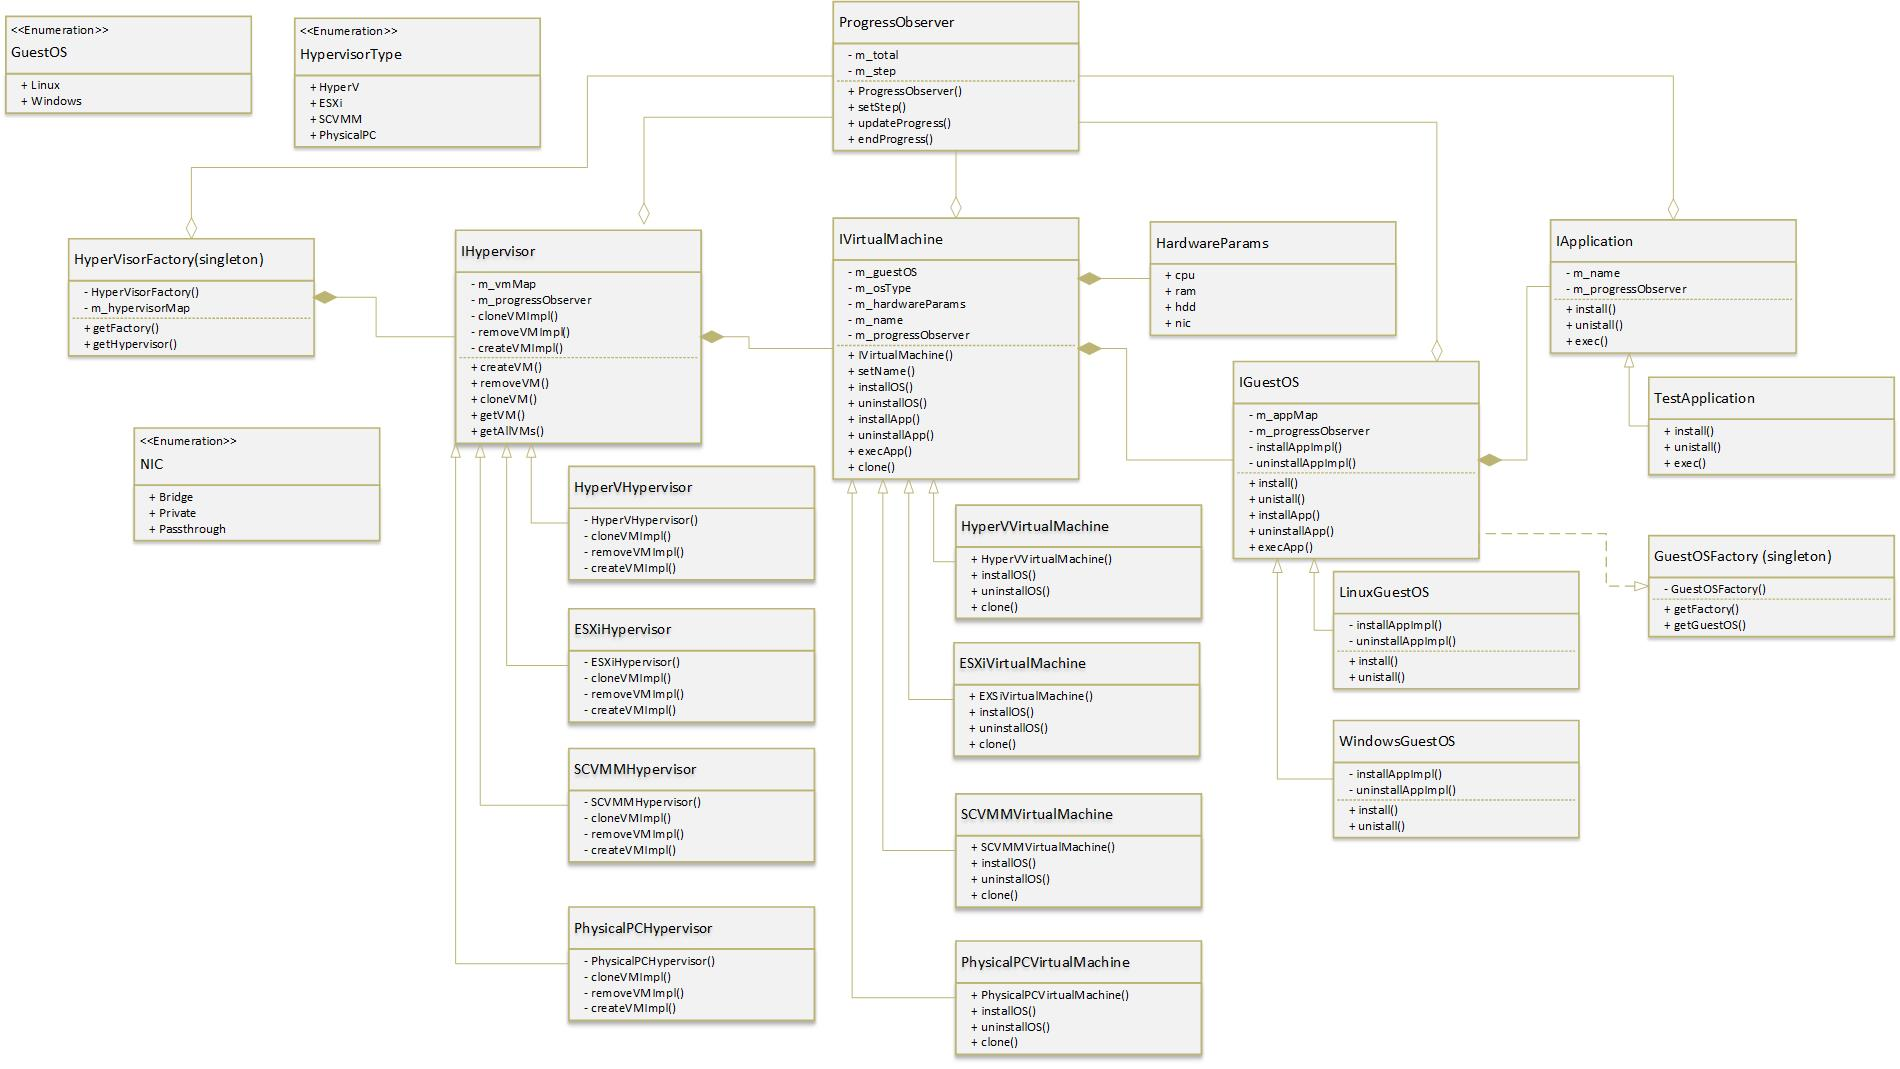
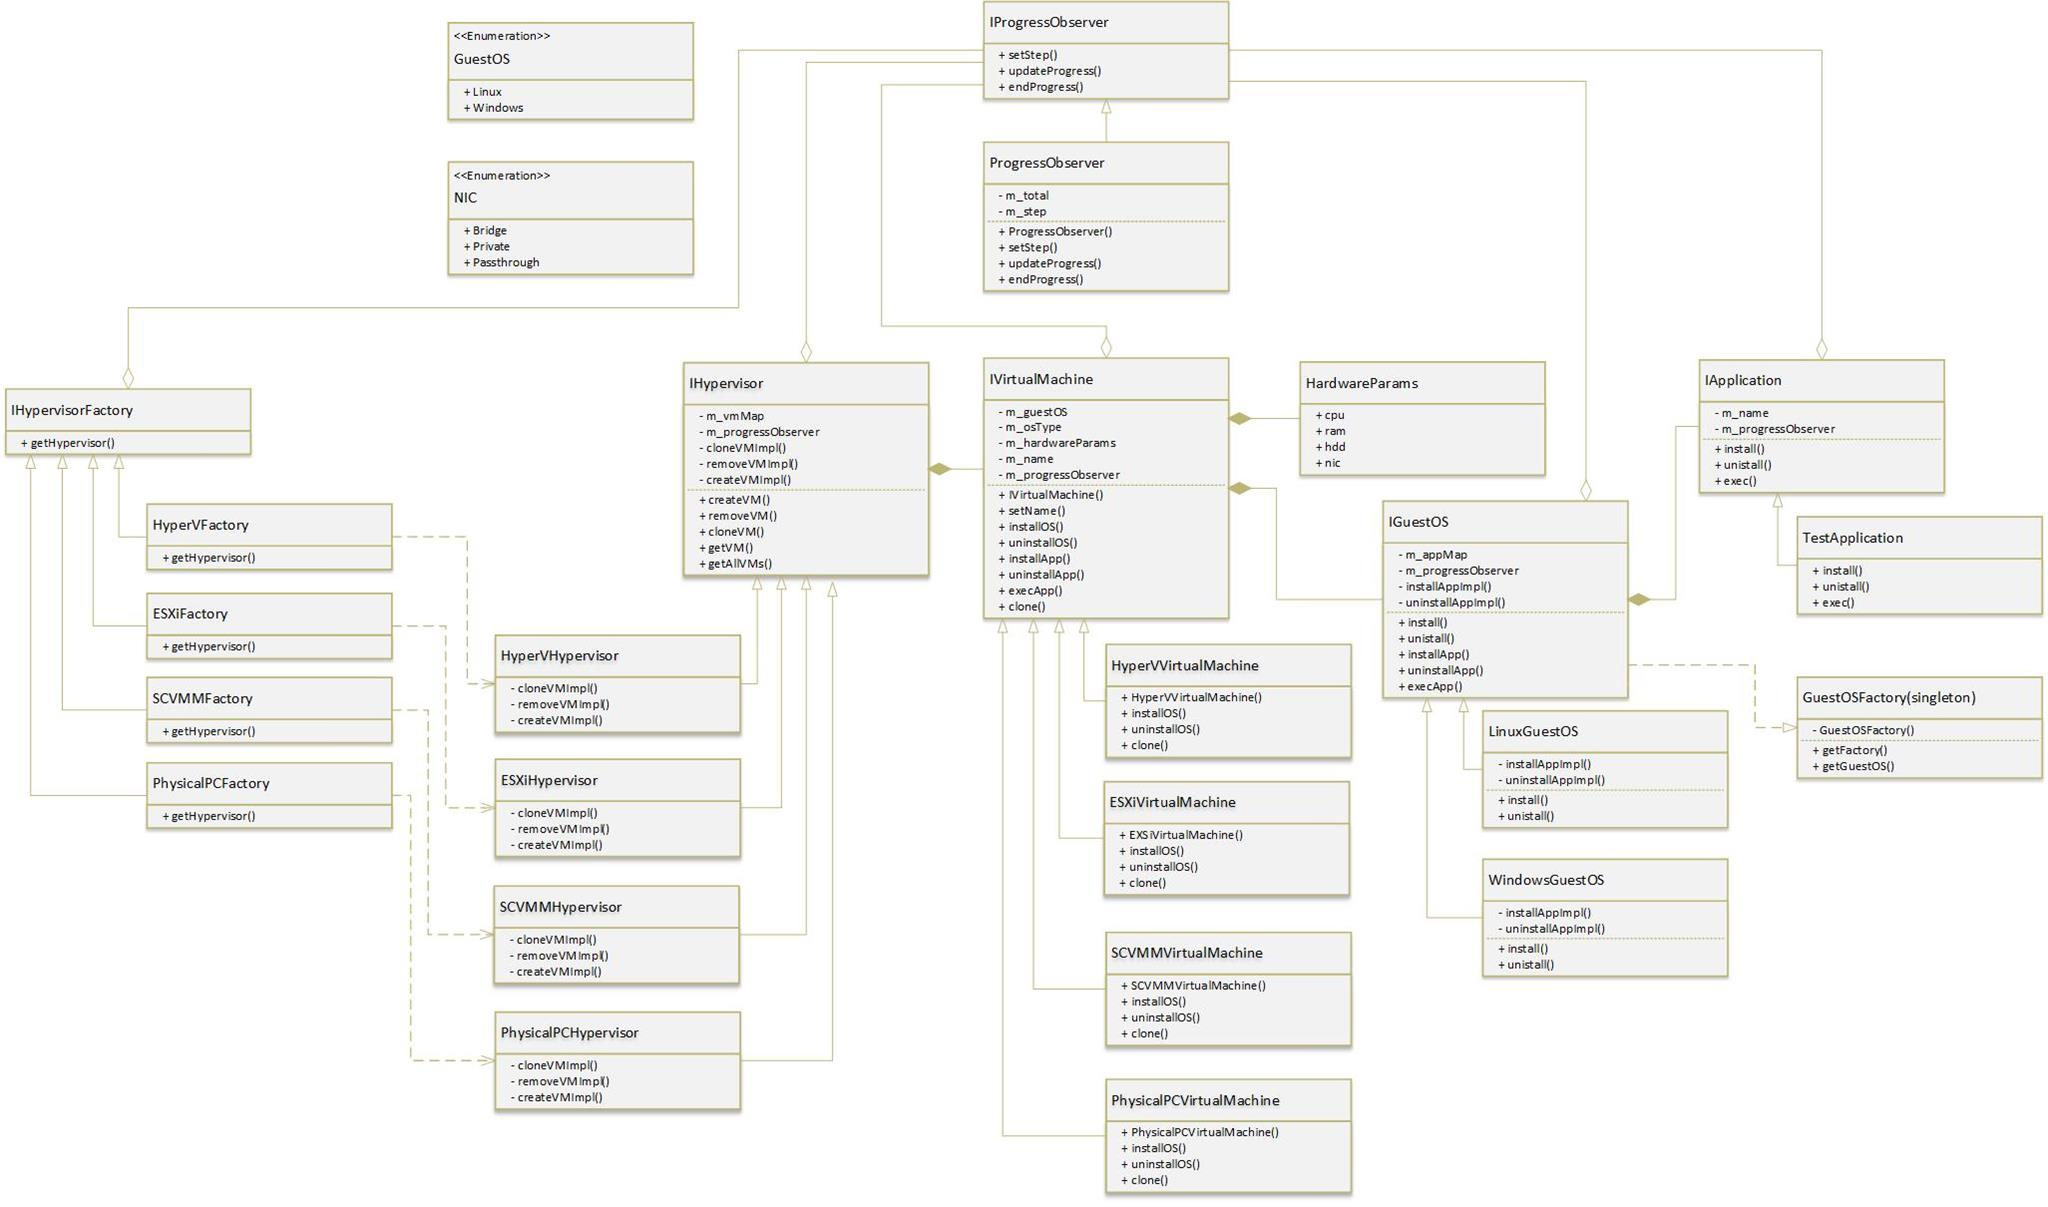
Added Abstarct class for ProgressObserver, fixed singleton, and added factories for each type of hypervisor

Changed region(s): [[0.0, 0.0, 1.0, 1.0]]

diff --git a/main.cpp b/main.cpp
@@ -1,5 +1,8 @@
-
-#include "HypervisorFactory.hpp"
+#include "ProgressObserver.hpp"
+#include "HyperVFactory.hpp"
+#include "ESXiFactory.hpp"
+#include "PhysicalPCFactory.hpp"
+#include "SCVMMFactory.hpp"
 
 void printDel()
 {
@@ -10,21 +13,24 @@ int main(int argc, char *argv[])
 {
     try
     {
-        std::unique_ptr<ProgressObserver> progress(new ProgressObserver());
-        auto factory = HypervisorFactory::getFactory();
-        std::vector<IHypervisor*> hypervisorVec;
-        HardwareParams params{1, 1, 1, NIC::Bridge};
+        std::unique_ptr<IProgressObserver> progress(new ProgressObserver());
+
+        std::list<std::unique_ptr<IHypervisorFactory>> hypervisorFactories;
+        hypervisorFactories.emplace_back(std::unique_ptr<IHypervisorFactory>(new HyperVFactory()));
+        hypervisorFactories.emplace_back(std::unique_ptr<IHypervisorFactory>(new PhysicalPCFactory()));
+        hypervisorFactories.emplace_back(std::unique_ptr<IHypervisorFactory>(new ESXiFactory()));
+        hypervisorFactories.emplace_back(std::unique_ptr<IHypervisorFactory>(new SCVMMFactory()));
+
+        std::list<std::unique_ptr<IHypervisor>> hypervisorVec;
+        for (const auto & factory : hypervisorFactories)
+        {
+            printDel();
+            hypervisorVec.emplace_back(factory->getHypervisor(progress.get()));
+        }
 
         printDel();
-        hypervisorVec.emplace_back(factory->getHypervisor(HypervisorType::HyperV, progress.get()));
-        printDel();
-        hypervisorVec.emplace_back(factory->getHypervisor(HypervisorType::ESXi, progress.get()));
-        printDel();
-        hypervisorVec.emplace_back(factory->getHypervisor(HypervisorType::SCVMM, progress.get()));
-        printDel();
-        hypervisorVec.emplace_back(factory->getHypervisor(HypervisorType::PhysicalPC, progress.get()));
-        printDel();
-        printDel();
+
+        HardwareParams params{1, 1, 1, NIC::Bridge};
 
         for (const auto& hyper : hypervisorVec)
         {

diff --git a/Hypervisor/IHypervisor.hpp b/Hypervisor/IHypervisor.hpp
@@ -2,33 +2,25 @@
 #define IHYPERVISOR_HPP
 
 #include <map>
-#include <vector>
+#include <list>
 #include <memory>
 #include "IVirtualMachine.hpp"
-#include "ProgressObserver.hpp"
-
-enum HypervisorType
-{
-    HyperV,
-    ESXi,
-    SCVMM,
-    PhysicalPC
-};
+#include "IProgressObserver.hpp"
 
 class IHypervisor
 {
 public:
-    explicit IHypervisor(ProgressObserver* observer)
+    explicit IHypervisor(IProgressObserver* observer)
         : m_progressObserver(observer) {}
     virtual ~IHypervisor(){}
     IVirtualMachine* createVM(const HardwareParams& params, const std::string& name);
     void removeVM(const std::string& name);
     IVirtualMachine* cloneVM(const std::string& orig_name, const std::string& clone_name);
     IVirtualMachine* getVM(const std::string& name);
-    std::vector<IVirtualMachine*> getAllVMs();
+    std::list<IVirtualMachine*> getAllVMs();
 
 protected:
-    ProgressObserver* m_progressObserver;
+    IProgressObserver* m_progressObserver;
     std::map<std::string, std::unique_ptr<IVirtualMachine>> m_vmMap;
 
 private:

diff --git a/VirtualMachine/PhysicalPCVirtualMachine.cpp b/VirtualMachine/PhysicalPCVirtualMachine.cpp
@@ -1,7 +1,7 @@
 #include "PhysicalPCVirtualMachine.hpp"
 #include "GuestOSFactory.hpp"
 
-PhysicalPCVirtualMachine::PhysicalPCVirtualMachine(ProgressObserver *observer, const HardwareParams &params, const std::string &name)
+PhysicalPCVirtualMachine::PhysicalPCVirtualMachine(IProgressObserver *observer, const HardwareParams &params, const std::string &name)
     : IVirtualMachine(observer, params, name)
 {
     std::cout << "PhysicalPCVirtualMachine created" << std::endl;
@@ -16,7 +16,7 @@ std::unique_ptr<IVirtualMachine> PhysicalPCVirtualMachine::clone()
 void PhysicalPCVirtualMachine::installOS(GuestOS guestOs)
 {
     m_guestOS.reset();
-    m_guestOS = GuestOSFactory::getFactory()->getGuestOS(guestOs, m_progressObserver);
+    m_guestOS = GuestOSFactory::getFactory().getGuestOS(guestOs, m_progressObserver);
     m_osType = guestOs;
     m_guestOS->install();
 }

diff --git a/VirtualMachine/HyperVVirtualMachine.cpp b/VirtualMachine/HyperVVirtualMachine.cpp
@@ -1,7 +1,7 @@
 #include "HyperVVirtualMachine.hpp"
 #include "GuestOSFactory.hpp"
 
-HyperVVirtualMachine::HyperVVirtualMachine(ProgressObserver *observer, const HardwareParams &params, const std::string &name)
+HyperVVirtualMachine::HyperVVirtualMachine(IProgressObserver *observer, const HardwareParams &params, const std::string &name)
     : IVirtualMachine(observer, params, name)
 {
     std::cout << "HyperVVirtualMachine created" << std::endl;
@@ -16,7 +16,7 @@ std::unique_ptr<IVirtualMachine> HyperVVirtualMachine::clone()
 void HyperVVirtualMachine::installOS(GuestOS guestOs)
 {
     m_guestOS.reset();
-    m_guestOS = GuestOSFactory::getFactory()->getGuestOS(guestOs, m_progressObserver);
+    m_guestOS = GuestOSFactory::getFactory().getGuestOS(guestOs, m_progressObserver);
     m_osType = guestOs;
     m_guestOS->install();
 }

diff --git a/VirtualMachine/SCVMMVirtualMachine.cpp b/VirtualMachine/SCVMMVirtualMachine.cpp
@@ -1,7 +1,7 @@
 #include "SCVMMVirtualMachine.hpp"
 #include "GuestOSFactory.hpp"
 
-SCVMMVirtualMachine::SCVMMVirtualMachine(ProgressObserver *observer, const HardwareParams &params, const std::string &name)
+SCVMMVirtualMachine::SCVMMVirtualMachine(IProgressObserver *observer, const HardwareParams &params, const std::string &name)
     : IVirtualMachine(observer, params, name)
 {
     std::cout << "SCVMMVirtualMachine created" << std::endl;
@@ -16,7 +16,7 @@ std::unique_ptr<IVirtualMachine> SCVMMVirtualMachine::clone()
 void SCVMMVirtualMachine::installOS(GuestOS guestOs)
 {
     m_guestOS.reset();
-    m_guestOS = GuestOSFactory::getFactory()->getGuestOS(guestOs, m_progressObserver);
+    m_guestOS = GuestOSFactory::getFactory().getGuestOS(guestOs, m_progressObserver);
     m_osType = guestOs;
     m_guestOS->install();
 }

diff --git a/VirtualMachine/ESXiVirtualMachine.cpp b/VirtualMachine/ESXiVirtualMachine.cpp
@@ -2,7 +2,7 @@
 
 #include "GuestOSFactory.hpp"
 
-ESXiVirtualMachine::ESXiVirtualMachine(ProgressObserver *observer, const HardwareParams &params, const std::string &name)
+ESXiVirtualMachine::ESXiVirtualMachine(IProgressObserver *observer, const HardwareParams &params, const std::string &name)
     : IVirtualMachine(observer, params, name)
 {
     std::cout << "ESXiVirtualMachine created" << std::endl;
@@ -17,7 +17,7 @@ std::unique_ptr<IVirtualMachine> ESXiVirtualMachine::clone()
 void ESXiVirtualMachine::installOS(GuestOS guestOs)
 {
     m_guestOS.reset();
-    m_guestOS = GuestOSFactory::getFactory()->getGuestOS(guestOs, m_progressObserver);
+    m_guestOS = GuestOSFactory::getFactory().getGuestOS(guestOs, m_progressObserver);
     m_osType = guestOs;
     m_guestOS->install();
 }

diff --git a/Hypervisor/PhysicalPCHypervisor.hpp b/Hypervisor/PhysicalPCHypervisor.hpp
@@ -6,14 +6,15 @@
 
 class PhysicalPCHypervisor : public IHypervisor
 {
+public:
+    explicit PhysicalPCHypervisor(IProgressObserver* observer);
 private:
-    explicit PhysicalPCHypervisor(ProgressObserver* observer);
     PhysicalPCHypervisor(const PhysicalPCHypervisor&) = delete;
     PhysicalPCHypervisor(PhysicalPCHypervisor&&) = delete;
     PhysicalPCHypervisor & operator = (const PhysicalPCHypervisor&) = delete;
     PhysicalPCHypervisor & operator = (PhysicalPCHypervisor&&) = delete;
 
-    friend class HypervisorFactory;
+    friend class PhysicalPCFactory;
 
     std::unique_ptr<IVirtualMachine> createVMImpl(const HardwareParams& params, const std::string& name) override;
     void removeVMImpl(const std::string& name) override;

diff --git a/Hypervisor/HyperVHypervisor.hpp b/Hypervisor/HyperVHypervisor.hpp
@@ -6,14 +6,15 @@
 
 class HyperVHypervisor : public IHypervisor
 {
+public:
+    explicit HyperVHypervisor(IProgressObserver* observer);
 private:
-    explicit HyperVHypervisor(ProgressObserver* observer);
     HyperVHypervisor(const HyperVHypervisor&) = delete;
     HyperVHypervisor(HyperVHypervisor&&) = delete;
     HyperVHypervisor & operator = (const HyperVHypervisor&) = delete;
     HyperVHypervisor & operator = (HyperVHypervisor&&) = delete;
 
-    friend class HypervisorFactory;
+    friend class HyperVFactory;
 
     std::unique_ptr<IVirtualMachine> createVMImpl(const HardwareParams& params, const std::string& name) override;
     void removeVMImpl(const std::string& name) override;

diff --git a/Hypervisor/SCVMMHypervisor.hpp b/Hypervisor/SCVMMHypervisor.hpp
@@ -5,14 +5,15 @@
 
 class SCVMMHypervisor : public IHypervisor
 {
+public:
+    explicit SCVMMHypervisor(IProgressObserver* observer);
 private:
-    explicit SCVMMHypervisor(ProgressObserver* observer);
     SCVMMHypervisor(const SCVMMHypervisor&) = delete;
     SCVMMHypervisor(SCVMMHypervisor&&) = delete;
     SCVMMHypervisor & operator = (const SCVMMHypervisor&) = delete;
     SCVMMHypervisor & operator = (SCVMMHypervisor&&) = delete;
 
-    friend class HypervisorFactory;
+    friend class SCVMMFactory;
 
     std::unique_ptr<IVirtualMachine> createVMImpl(const HardwareParams& params, const std::string& name) override;
     void removeVMImpl(const std::string& name) override;

diff --git a/Hypervisor/ESXiHypervisor.hpp b/Hypervisor/ESXiHypervisor.hpp
@@ -5,14 +5,15 @@
 
 class ESXiHypervisor : public IHypervisor
 {
+public:
+    explicit ESXiHypervisor(IProgressObserver* observer);
 private:
-    explicit ESXiHypervisor(ProgressObserver* observer);
     ESXiHypervisor(const ESXiHypervisor&) = delete;
     ESXiHypervisor(ESXiHypervisor&&) = delete;
     ESXiHypervisor & operator = (const ESXiHypervisor&) = delete;
     ESXiHypervisor & operator = (ESXiHypervisor&&) = delete;
 
-    friend class HypervisorFactory;
+    friend class ESXiFactory;
 
     std::unique_ptr<IVirtualMachine> createVMImpl(const HardwareParams& params, const std::string& name) override;
     void removeVMImpl(const std::string& name) override;

diff --git a/GuestOSFactory/GuestOSFactory.cpp b/GuestOSFactory/GuestOSFactory.cpp
@@ -2,17 +2,13 @@
 #include "LinuxGuestOS.hpp"
 #include "WindowsGuestOS.hpp"
 
-GuestOSFactory *GuestOSFactory::getFactory()
+GuestOSFactory & GuestOSFactory::getFactory()
 {
-    static std::unique_ptr<GuestOSFactory> factory;
-    if (!factory.get())
-    {
-        factory.reset(new GuestOSFactory());
-    }
-    return factory.get();
+    static GuestOSFactory factory;
+    return factory;
 }
 
-std::unique_ptr<IGuestOS> GuestOSFactory::getGuestOS(GuestOS guest, ProgressObserver* observer)
+std::unique_ptr<IGuestOS> GuestOSFactory::getGuestOS(GuestOS guest, IProgressObserver* observer)
 {
     std::unique_ptr<IGuestOS> guestPtr;
 

diff --git a/VirtualMachine/IVirtualMachine.hpp b/VirtualMachine/IVirtualMachine.hpp
@@ -25,7 +25,7 @@ class IVirtualMachine
 {
 public:
     explicit IVirtualMachine(){}
-    IVirtualMachine(ProgressObserver* observer, const HardwareParams& params, const std::string& name)
+    IVirtualMachine(IProgressObserver* observer, const HardwareParams& params, const std::string& name)
         : m_progressObserver(observer),
           m_hardwareParams(params),
           m_name(name) {}
@@ -51,7 +51,7 @@ protected:
         }
     }
 
-    ProgressObserver* m_progressObserver;
+    IProgressObserver* m_progressObserver;
     HardwareParams m_hardwareParams;
     std::string m_name;
     std::unique_ptr<IGuestOS> m_guestOS;
